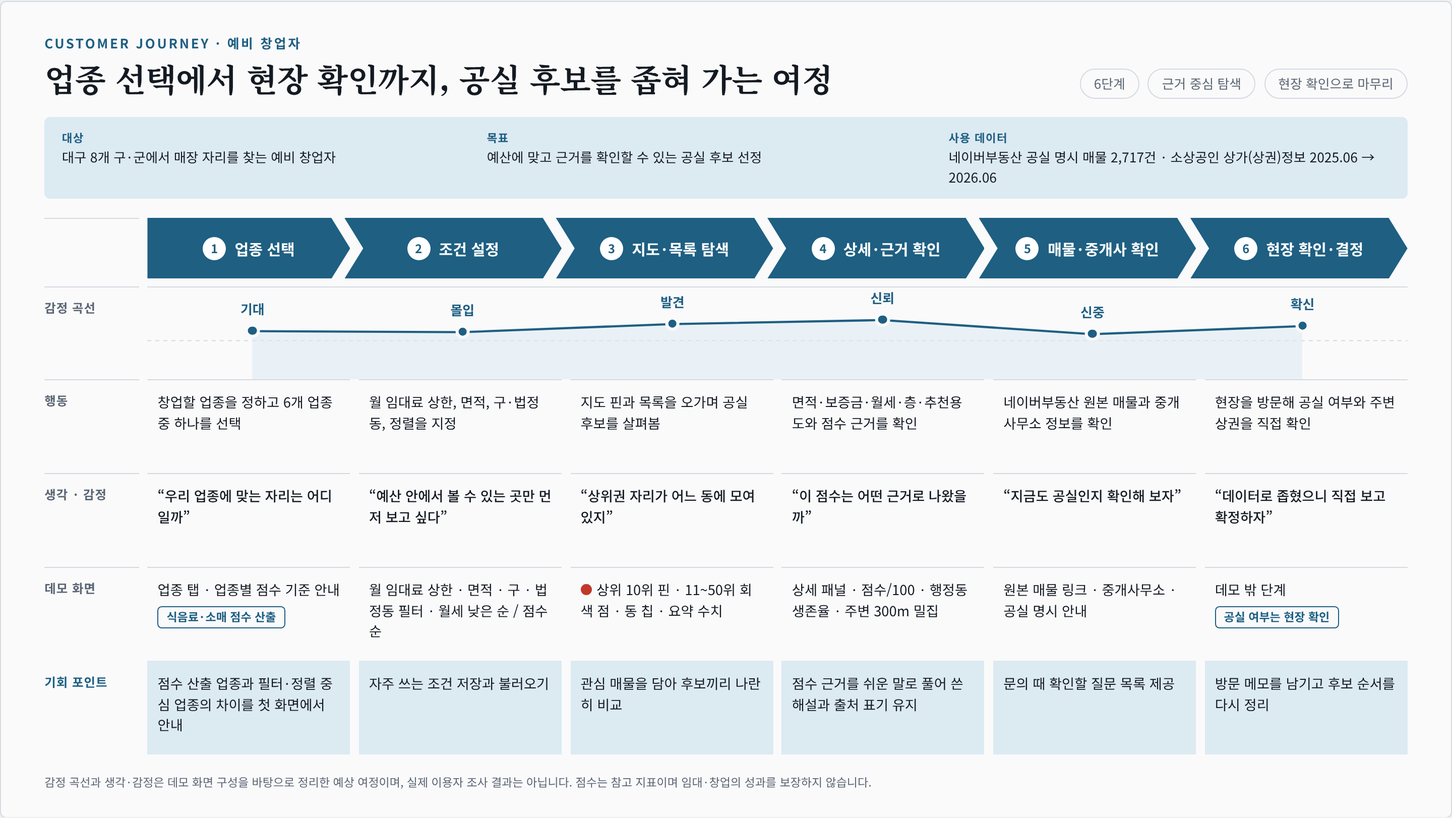
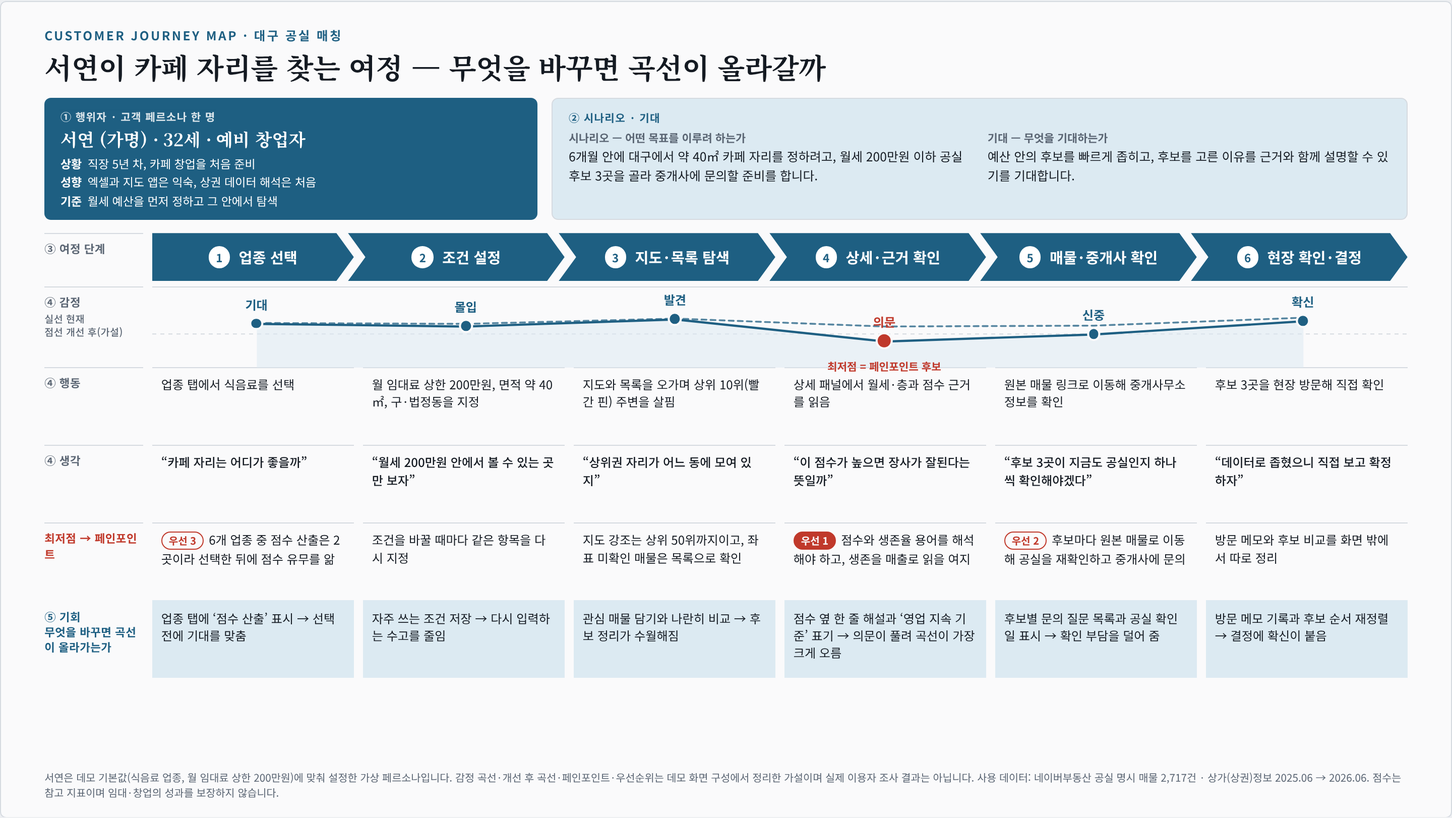
docs: 고객 여정 지도에 페르소나와 5요소 구조, 페인포인트 우선순위 반영
- 행위자(서연, 가명) · 시나리오·기대 · 여정 단계 · 행동·생각·감정 · 기회 순으로 재구성
- 최저점을 페인포인트 후보로 표시하고 개선 후 곡선(가설)을 추가
- md, HTML, PNG를 함께 갱신

Claude-Session: https://claude.ai/code/session_01M2kW5dRV34WsrKaFoMCad9

diff --git a/12_고객여정지도_대구_공실매칭.html b/12_고객여정지도_대구_공실매칭.html
@@ -4,8 +4,8 @@
 <link rel="preconnect" href="https://fonts.gstatic.com" crossorigin>
 <link href="https://fonts.googleapis.com/css2?family=Noto+Sans+KR:wght@400;500;700&family=Noto+Serif+KR:wght@600;700&display=swap" rel="stylesheet">
 <style>
-/* Layout concept: one 16:9 journey frame for the 예비 창업자 using the 대구 공실 매칭 demo.
-   Persona strip on top, six stage chevrons, emotion curve, then 행동 / 생각 / 데모 화면 / 기회 rows. */
+/* Layout concept: one 16:9 journey frame built on the five elements of a journey map.
+   ① 행위자 and ② 시나리오·기대 sit side by side on top; ③ stages, ④ 행동·생각·감정 (with curve), ⑤ 기회 run below. */
 :root{
   --bg:#EDEFF2; --paper:#FAFAFB; --ink:#141A22; --muted:#5A6573; --line:#D5DAE0;
   --acc:#1E5F82; --acc-soft:#DCEAF2; --on-acc:#FFFFFF; --pin:#C0392B;
@@ -39,82 +39,113 @@ body{
   container-type:inline-size; aspect-ratio:16/9; min-width:1100px;
   background:var(--paper); border:1px solid var(--line); border-radius:6px; overflow:hidden;
 }
-.inner{height:100%; display:flex; flex-direction:column; gap:1.3cqw; padding:2.2cqw 3cqw 1.8cqw}
-.head{display:flex; justify-content:space-between; align-items:flex-end; gap:2cqw}
-.eyebrow{margin:0 0 .4cqw; font-size:.9cqw; letter-spacing:.14em; font-weight:700; color:var(--acc)}
-.head h2{margin:0; font-family:var(--serif); font-size:2.2cqw; line-height:1.25; letter-spacing:-.01em}
-.chips{display:flex; gap:.6cqw; margin:0; padding:0; list-style:none}
-.chips li{border:1px solid var(--line); border-radius:99px; padding:.3cqw .9cqw; font-size:.9cqw; color:var(--muted)}
-.persona{
-  display:grid; grid-template-columns:1.1fr 1.2fr 1.2fr; gap:1.4cqw;
-  background:var(--acc-soft); border-radius:.4cqw; padding:.8cqw 1.2cqw;
-}
-.persona div{font-size:.92cqw; line-height:1.5; min-width:0}
-.persona b{display:block; font-size:.78cqw; letter-spacing:.06em; color:var(--acc); margin-bottom:.1cqw}
+.inner{height:100%; display:flex; flex-direction:column; gap:.9cqw; padding:1.7cqw 3cqw 1.2cqw}
+.head p{margin:0 0 .3cqw; font-size:.85cqw; letter-spacing:.14em; font-weight:700; color:var(--acc)}
+.head h2{margin:0; font-family:var(--serif); font-size:1.95cqw; line-height:1.25; letter-spacing:-.01em}
+
+/* ① ② */
+.top2{display:grid; grid-template-columns:.95fr 1.65fr; gap:1cqw}
+.card{border-radius:.45cqw; padding:.8cqw 1.1cqw; min-width:0}
+.persona{background:var(--acc); color:var(--on-acc)}
+.scn{background:var(--acc-soft); border:1px solid var(--line)}
+.kk{font-size:.74cqw; font-weight:700; letter-spacing:.06em; margin-bottom:.3cqw; display:block}
+.persona .kk{opacity:.85}
+.scn .kk{color:var(--acc)}
+.pname{font-family:var(--serif); font-size:1.2cqw; font-weight:700; margin:0 0 .3cqw; line-height:1.3}
+.persona ul{margin:0; padding:0; list-style:none; display:grid; gap:.15cqw}
+.persona li{font-size:.8cqw; line-height:1.4}
+.persona li b{font-weight:700; margin-right:.4cqw}
+.scn-grid{display:grid; grid-template-columns:1fr 1fr; gap:1.1cqw}
+.scn p{margin:0; font-size:.86cqw; line-height:1.5}
+.scn .sub{font-size:.76cqw; font-weight:700; color:var(--muted); margin-bottom:.15cqw; display:block}
+
+/* ③ ④ ⑤ */
 .grid{
   flex:1; min-height:0; display:grid; column-gap:.6cqw;
-  grid-template-columns:6.5cqw repeat(6, minmax(0,1fr));
-  grid-template-rows:auto auto repeat(4, minmax(0,1fr));
+  grid-template-columns:6.8cqw repeat(6, minmax(0,1fr));
+  grid-template-rows:auto auto repeat(5, minmax(0,1fr));
 }
-.lab{font-size:.85cqw; font-weight:700; color:var(--muted); letter-spacing:.04em; padding:.8cqw .3cqw .8cqw 0; border-top:1px solid var(--line)}
-.c{font-size:.95cqw; line-height:1.5; padding:.8cqw .7cqw; border-top:1px solid var(--line); min-width:0}
+.lab{font-size:.78cqw; font-weight:700; color:var(--muted); letter-spacing:.02em; padding:.5cqw .3cqw .5cqw 0; border-top:1px solid var(--line); line-height:1.35}
+.c{font-size:.84cqw; line-height:1.42; padding:.5cqw .65cqw; border-top:1px solid var(--line); min-width:0}
 .c.q{font-weight:500}
 .c.opp{background:var(--acc-soft); border-top-color:transparent}
 .lab.opp{color:var(--acc); border-top-color:transparent}
+.lab.pain{color:var(--pin)}
 .st{
-  display:flex; align-items:center; justify-content:center; gap:.6cqw; height:4.2cqw;
-  background:var(--acc); color:var(--on-acc); font-weight:700; font-size:1.05cqw;
-  clip-path:polygon(0 0, calc(100% - 1.3cqw) 0, 100% 50%, calc(100% - 1.3cqw) 100%, 0 100%, 1.3cqw 50%);
-  margin-left:-1cqw; padding:0 1.6cqw; text-align:center; line-height:1.25; min-width:0;
+  display:flex; align-items:center; justify-content:center; gap:.6cqw; height:3.3cqw;
+  background:var(--acc); color:var(--on-acc); font-weight:700; font-size:1.02cqw;
+  clip-path:polygon(0 0, calc(100% - 1.2cqw) 0, 100% 50%, calc(100% - 1.2cqw) 100%, 0 100%, 1.2cqw 50%);
+  margin-left:-1cqw; padding:0 1.5cqw; text-align:center; line-height:1.25; min-width:0;
 }
-.st:nth-child(2){margin-left:0; clip-path:polygon(0 0, calc(100% - 1.3cqw) 0, 100% 50%, calc(100% - 1.3cqw) 100%, 0 100%)}
+.st:nth-child(2){margin-left:0; clip-path:polygon(0 0, calc(100% - 1.2cqw) 0, 100% 50%, calc(100% - 1.2cqw) 100%, 0 100%)}
 .st b{
-  font-size:.82cqw; width:1.6cqw; height:1.6cqw; border-radius:50%; flex:none;
+  font-size:.78cqw; width:1.5cqw; height:1.5cqw; border-radius:50%; flex:none;
   display:inline-flex; align-items:center; justify-content:center;
   background:var(--on-acc); color:var(--acc);
 }
-.curve{grid-column:2 / -1; position:relative; height:6.4cqw; border-top:1px solid var(--line); margin-top:.5cqw}
+.curve{grid-column:2 / -1; position:relative; height:5.6cqw; border-top:1px solid var(--line); margin-top:.35cqw}
 .curve svg{position:absolute; inset:0; width:100%; height:100%; overflow:visible}
 .curve .area{fill:var(--acc-soft)}
 .curve .line{fill:none; stroke:var(--acc); stroke-width:2.2; stroke-linejoin:round; stroke-linecap:round; vector-effect:non-scaling-stroke}
+.curve .after{fill:none; stroke:var(--acc); stroke-width:1.8; stroke-dasharray:5 4; stroke-linejoin:round; stroke-linecap:round; vector-effect:non-scaling-stroke; opacity:.75}
 .curve .mid{stroke:var(--line); stroke-width:1; stroke-dasharray:4 4; vector-effect:non-scaling-stroke}
-.dot{position:absolute; width:1cqw; height:1cqw; border-radius:50%; background:var(--acc); border:.22cqw solid var(--paper); transform:translate(-50%,-50%)}
-.dl{position:absolute; transform:translate(-50%,-165%); font-size:.9cqw; font-weight:700; color:var(--acc); white-space:nowrap}
-.lab.cv{grid-row:2; border-top:1px solid var(--line); margin-top:.5cqw; padding-top:.8cqw}
-.pin{display:inline-block; width:.8cqw; height:.8cqw; border-radius:50%; background:var(--pin); margin-right:.3cqw; vertical-align:baseline}
-.tag{
-  display:inline-block; margin-top:.4cqw; padding:.1cqw .55cqw; border:1px solid var(--acc); color:var(--acc);
-  border-radius:.3cqw; font-size:.8cqw; font-weight:700; line-height:1.5;
+.dot{position:absolute; width:.95cqw; height:.95cqw; border-radius:50%; background:var(--acc); border:.2cqw solid var(--paper); transform:translate(-50%,-50%)}
+.dot.low{background:var(--pin); width:1.2cqw; height:1.2cqw}
+.dl{position:absolute; transform:translate(-50%,-165%); font-size:.84cqw; font-weight:700; color:var(--acc); white-space:nowrap}
+.dl.low{color:var(--pin)}
+.ln{position:absolute; transform:translate(-50%,115%); font-size:.74cqw; font-weight:700; color:var(--pin); white-space:nowrap}
+.lab.cv{grid-row:2; border-top:1px solid var(--line); margin-top:.35cqw; padding-top:.5cqw}
+.lab.cv small{display:block; font-weight:500; font-size:.68cqw; margin-top:.2cqw; color:var(--muted)}
+.pr{
+  display:inline-block; margin-right:.35cqw; padding:.02cqw .45cqw; border-radius:99px; font-size:.7cqw; font-weight:700;
+  border:1px solid var(--pin); color:var(--pin); line-height:1.5; white-space:nowrap;
 }
-.foot{margin:0; font-size:.8cqw; color:var(--muted); line-height:1.5}
+.pr.p1{background:var(--pin); color:var(--paper)}
+.foot{margin:0; font-size:.72cqw; color:var(--muted); line-height:1.45}
 @media (prefers-reduced-motion: reduce){*{transition:none!important; animation:none!important}}
 </style>
 
 <main class="page">
   <div class="top">
     <h1>대구 공실 매칭 고객 여정</h1>
-    <p>「대구 공실 매칭 · 8개 구·군」 데모의 화면 구성(업종 선택, 조건 필터, 지도·목록, 점수 근거, 원본 매물 링크)을 기준으로 예비 창업자의 여정을 정리했습니다.</p>
+    <p>「대구 공실 매칭 · 8개 구·군」 데모를 쓰는 고객 한 명과 목표 하나를 기준으로, 행위자 · 시나리오 · 여정 단계 · 행동·생각·감정 · 기회의 다섯 요소로 정리했습니다.</p>
   </div>
 
   <div class="scroller">
   <section class="stage" aria-label="대구 공실 매칭 고객 여정 지도">
     <div class="inner">
       <header class="head">
-        <div>
-          <p class="eyebrow">CUSTOMER JOURNEY · 예비 창업자</p>
-          <h2>업종 선택에서 현장 확인까지, 공실 후보를 좁혀 가는 여정</h2>
-        </div>
-        <ul class="chips"><li>6단계</li><li>근거 중심 탐색</li><li>현장 확인으로 마무리</li></ul>
+        <p>CUSTOMER JOURNEY MAP · 대구 공실 매칭</p>
+        <h2>서연이 카페 자리를 찾는 여정 — 무엇을 바꾸면 곡선이 올라갈까</h2>
       </header>
 
-      <div class="persona">
-        <div><b>대상</b>대구 8개 구·군에서 매장 자리를 찾는 예비 창업자</div>
-        <div><b>목표</b>예산에 맞고 근거를 확인할 수 있는 공실 후보 선정</div>
-        <div><b>사용 데이터</b>네이버부동산 공실 명시 매물 2,717건 · 소상공인 상가(상권)정보 2025.06 → 2026.06</div>
+      <div class="top2">
+        <div class="card persona">
+          <span class="kk">① 행위자 · 고객 페르소나 한 명</span>
+          <p class="pname">서연 (가명) · 32세 · 예비 창업자</p>
+          <ul>
+            <li><b>상황</b>직장 5년 차, 카페 창업을 처음 준비</li>
+            <li><b>성향</b>엑셀과 지도 앱은 익숙, 상권 데이터 해석은 처음</li>
+            <li><b>기준</b>월세 예산을 먼저 정하고 그 안에서 탐색</li>
+          </ul>
+        </div>
+        <div class="card scn">
+          <span class="kk">② 시나리오 · 기대</span>
+          <div class="scn-grid">
+            <div>
+              <span class="sub">시나리오 — 어떤 목표를 이루려 하는가</span>
+              <p>6개월 안에 대구에서 약 40㎡ 카페 자리를 정하려고, 월세 200만원 이하 공실 후보 3곳을 골라 중개사에 문의할 준비를 합니다.</p>
+            </div>
+            <div>
+              <span class="sub">기대 — 무엇을 기대하는가</span>
+              <p>예산 안의 후보를 빠르게 좁히고, 후보를 고른 이유를 근거와 함께 설명할 수 있기를 기대합니다.</p>
+            </div>
+          </div>
+        </div>
       </div>
 
       <div class="grid">
-        <div class="lab"></div>
+        <div class="lab">③ 여정 단계</div>
         <div class="st"><b>1</b>업종 선택</div>
         <div class="st"><b>2</b>조건 설정</div>
         <div class="st"><b>3</b>지도·목록 탐색</div>
@@ -122,43 +153,43 @@ body{
         <div class="st"><b>5</b>매물·중개사 확인</div>
         <div class="st"><b>6</b>현장 확인·결정</div>
 
-        <div class="lab cv">감정 곡선</div>
-        <div class="curve" data-v="68,66,82,90,62,78" data-l="기대,몰입,발견,신뢰,신중,확신"></div>
+        <div class="lab cv">④ 감정<small>실선 현재<br>점선 개선 후(가설)</small></div>
+        <div class="curve" data-v="72,66,82,32,48,78" data-w="74,72,84,66,68,86" data-l="기대,몰입,발견,의문,신중,확신" data-low="3"></div>
 
-        <div class="lab">행동</div>
-        <div class="c">창업할 업종을 정하고 6개 업종 중 하나를 선택</div>
-        <div class="c">월 임대료 상한, 면적, 구·법정동, 정렬을 지정</div>
-        <div class="c">지도 핀과 목록을 오가며 공실 후보를 살펴봄</div>
-        <div class="c">면적·보증금·월세·층·추천용도와 점수 근거를 확인</div>
-        <div class="c">네이버부동산 원본 매물과 중개사무소 정보를 확인</div>
-        <div class="c">현장을 방문해 공실 여부와 주변 상권을 직접 확인</div>
+        <div class="lab">④ 행동</div>
+        <div class="c">업종 탭에서 식음료를 선택</div>
+        <div class="c">월 임대료 상한 200만원, 면적 약 40㎡, 구·법정동을 지정</div>
+        <div class="c">지도와 목록을 오가며 상위 10위(빨간 핀) 주변을 살핌</div>
+        <div class="c">상세 패널에서 월세·층과 점수 근거를 읽음</div>
+        <div class="c">원본 매물 링크로 이동해 중개사무소 정보를 확인</div>
+        <div class="c">후보 3곳을 현장 방문해 직접 확인</div>
 
-        <div class="lab">생각 · 감정</div>
-        <div class="c q">“우리 업종에 맞는 자리는 어디일까”</div>
-        <div class="c q">“예산 안에서 볼 수 있는 곳만 먼저 보고 싶다”</div>
+        <div class="lab">④ 생각</div>
+        <div class="c q">“카페 자리는 어디가 좋을까”</div>
+        <div class="c q">“월세 200만원 안에서 볼 수 있는 곳만 보자”</div>
         <div class="c q">“상위권 자리가 어느 동에 모여 있지”</div>
-        <div class="c q">“이 점수는 어떤 근거로 나왔을까”</div>
-        <div class="c q">“지금도 공실인지 확인해 보자”</div>
+        <div class="c q">“이 점수가 높으면 장사가 잘된다는 뜻일까”</div>
+        <div class="c q">“후보 3곳이 지금도 공실인지 하나씩 확인해야겠다”</div>
         <div class="c q">“데이터로 좁혔으니 직접 보고 확정하자”</div>
 
-        <div class="lab">데모 화면</div>
-        <div class="c">업종 탭 · 업종별 점수 기준 안내<br><span class="tag">식음료·소매 점수 산출</span></div>
-        <div class="c">월 임대료 상한 · 면적 · 구 · 법정동 필터 · 월세 낮은 순 / 점수 순</div>
-        <div class="c"><span class="pin"></span>상위 10위 핀 · 11~50위 회색 점 · 동 칩 · 요약 수치</div>
-        <div class="c">상세 패널 · 점수/100 · 행정동 생존율 · 주변 300m 밀집</div>
-        <div class="c">원본 매물 링크 · 중개사무소 · 공실 명시 안내</div>
-        <div class="c">데모 밖 단계<br><span class="tag">공실 여부는 현장 확인</span></div>
+        <div class="lab pain">최저점 → 페인포인트</div>
+        <div class="c"><span class="pr">우선 3</span>6개 업종 중 점수 산출은 2곳이라 선택한 뒤에 점수 유무를 앎</div>
+        <div class="c">조건을 바꿀 때마다 같은 항목을 다시 지정</div>
+        <div class="c">지도 강조는 상위 50위까지이고, 좌표 미확인 매물은 목록으로 확인</div>
+        <div class="c"><span class="pr p1">우선 1</span>점수와 생존율 용어를 해석해야 하고, 생존을 매출로 읽을 여지</div>
+        <div class="c"><span class="pr">우선 2</span>후보마다 원본 매물로 이동해 공실을 재확인하고 중개사에 문의</div>
+        <div class="c">방문 메모와 후보 비교를 화면 밖에서 따로 정리</div>
 
-        <div class="lab opp">기회 포인트</div>
-        <div class="c opp">점수 산출 업종과 필터·정렬 중심 업종의 차이를 첫 화면에서 안내</div>
-        <div class="c opp">자주 쓰는 조건 저장과 불러오기</div>
-        <div class="c opp">관심 매물을 담아 후보끼리 나란히 비교</div>
-        <div class="c opp">점수 근거를 쉬운 말로 풀어 쓴 해설과 출처 표기 유지</div>
-        <div class="c opp">문의 때 확인할 질문 목록 제공</div>
-        <div class="c opp">방문 메모를 남기고 후보 순서를 다시 정리</div>
+        <div class="lab opp">⑤ 기회<br>무엇을 바꾸면 곡선이 올라가는가</div>
+        <div class="c opp">업종 탭에 ‘점수 산출’ 표시 → 선택 전에 기대를 맞춤</div>
+        <div class="c opp">자주 쓰는 조건 저장 → 다시 입력하는 수고를 줄임</div>
+        <div class="c opp">관심 매물 담기와 나란히 비교 → 후보 정리가 수월해짐</div>
+        <div class="c opp">점수 옆 한 줄 해설과 ‘영업 지속 기준’ 표기 → 의문이 풀려 곡선이 가장 크게 오름</div>
+        <div class="c opp">후보별 문의 질문 목록과 공실 확인일 표시 → 확인 부담을 덜어 줌</div>
+        <div class="c opp">방문 메모 기록과 후보 순서 재정렬 → 결정에 확신이 붙음</div>
       </div>
 
-      <p class="foot">감정 곡선과 생각·감정은 데모 화면 구성을 바탕으로 정리한 예상 여정이며, 실제 이용자 조사 결과는 아닙니다. 점수는 참고 지표이며 임대·창업의 성과를 보장하지 않습니다.</p>
+      <p class="foot">서연은 데모 기본값(식음료 업종, 월 임대료 상한 200만원)에 맞춰 설정한 가상 페르소나입니다. 감정 곡선·개선 후 곡선·페인포인트·우선순위는 데모 화면 구성에서 정리한 가설이며 실제 이용자 조사 결과는 아닙니다. 사용 데이터: 네이버부동산 공실 명시 매물 2,717건 · 상가(상권)정보 2025.06 → 2026.06. 점수는 참고 지표이며 임대·창업의 성과를 보장하지 않습니다.</p>
     </div>
   </section>
   </div>
@@ -166,18 +197,23 @@ body{
 
 <script>
 document.querySelectorAll('.curve').forEach(function(el){
-  var v = el.dataset.v.split(',').map(Number), l = el.dataset.l.split(',');
+  var v = el.dataset.v.split(',').map(Number), w = (el.dataset.w||'').split(',').map(Number), l = el.dataset.l.split(',');
+  var low = el.dataset.low === undefined ? -1 : Number(el.dataset.low);
   var n = v.length;
-  var pts = v.map(function(x,i){ return [(i+.5)/n*100, 85 - x*.55]; });
-  var line = pts.map(function(p,i){ return (i?'L':'M')+p[0].toFixed(2)+' '+p[1].toFixed(2); }).join(' ');
+  function P(a){ return a.map(function(x,i){ return [(i+.5)/n*100, 85 - x*.55]; }); }
+  function D(p){ return p.map(function(q,i){ return (i?'L':'M')+q[0].toFixed(2)+' '+q[1].toFixed(2); }).join(' '); }
+  var pts = P(v);
   var area = 'M'+pts[0][0].toFixed(2)+' 100 '+pts.map(function(p){ return 'L'+p[0].toFixed(2)+' '+p[1].toFixed(2); }).join(' ')+' L'+pts[n-1][0].toFixed(2)+' 100 Z';
   var html = '<svg viewBox="0 0 100 100" preserveAspectRatio="none" aria-hidden="true">'
     + '<line class="mid" x1="0" y1="58" x2="100" y2="58"/>'
     + '<path class="area" d="'+area+'" opacity=".55"/>'
-    + '<path class="line" d="'+line+'"/></svg>';
+    + (w.length===n ? '<path class="after" d="'+D(P(w))+'"/>' : '')
+    + '<path class="line" d="'+D(pts)+'"/></svg>';
   pts.forEach(function(p,i){
-    html += '<span class="dot" style="left:'+p[0]+'%;top:'+p[1]+'%"></span>'
-         +  '<span class="dl" style="left:'+p[0]+'%;top:'+p[1]+'%">'+l[i]+'</span>';
+    var c = i===low ? ' low' : '';
+    html += '<span class="dot'+c+'" style="left:'+p[0]+'%;top:'+p[1]+'%"></span>'
+         +  '<span class="dl'+c+'" style="left:'+p[0]+'%;top:'+p[1]+'%">'+l[i]+'</span>';
+    if(i===low){ html += '<span class="ln" style="left:'+p[0]+'%;top:'+p[1]+'%">최저점 = 페인포인트 후보</span>'; }
   });
   el.innerHTML = html;
 });

diff --git a/12_고객여정지도_대구_공실매칭.md b/12_고객여정지도_대구_공실매칭.md
@@ -1,36 +1,48 @@
 # 대구 공실 매칭 고객 여정 지도
 
-「대구 공실 매칭 · 8개 구·군」 데모의 화면 구성(업종 선택, 조건 필터, 지도·목록, 점수 근거, 원본 매물 링크)을 기준으로 예비 창업자의 여정을 정리했습니다.
+「대구 공실 매칭 · 8개 구·군」 데모를 쓰는 고객 한 명과 목표 하나를 기준으로, 고객 여정 지도의 다섯 요소(① 행위자 · ② 시나리오·기대 · ③ 여정 단계 · ④ 행동·생각·감정 · ⑤ 기회)에 맞춰 정리했습니다.
 
 ![대구 공실 매칭 고객 여정 지도](12_고객여정지도_대구_공실매칭.png)
 
 - 인터랙티브 원본(16:9 HTML): [12_고객여정지도_대구_공실매칭.html](12_고객여정지도_대구_공실매칭.html)
 
-## 페르소나
+## ① 행위자 — 고객 페르소나 한 명
 
 | 항목 | 내용 |
 |---|---|
-| 대상 | 대구 8개 구·군에서 매장 자리를 찾는 예비 창업자 |
-| 목표 | 예산에 맞고 근거를 확인할 수 있는 공실 후보 선정 |
-| 사용 데이터 | 네이버부동산 공실 명시 매물 2,717건 · 소상공인 상가(상권)정보 2025.06 → 2026.06 |
+| 이름 | 서연 (가명) |
+| 나이·역할 | 32세 · 예비 창업자 |
+| 상황 | 직장 5년 차, 카페 창업을 처음 준비 |
+| 성향 | 엑셀과 지도 앱은 익숙하고, 상권 데이터 해석은 처음 |
+| 탐색 기준 | 월세 예산을 먼저 정하고 그 안에서 탐색 |
 
-## 여정 6단계
+서연은 데모 기본값(식음료 업종, 월 임대료 상한 200만원)에 맞춰 설정한 가상 페르소나입니다. 여러 고객을 한 장에 섞으면 감정 곡선의 의미가 흐려지므로, 한 사람과 한 시나리오만 다룹니다.
+
+## ② 시나리오 · 기대
+
+- **시나리오(어떤 목표를 이루려 하는가)**: 6개월 안에 대구에서 약 40㎡ 카페 자리를 정하려고, 월세 200만원 이하 공실 후보 3곳을 골라 중개사에 문의할 준비를 합니다.
+- **기대(무엇을 기대하는가)**: 예산 안의 후보를 빠르게 좁히고, 후보를 고른 이유를 근거와 함께 설명할 수 있기를 기대합니다.
+
+## ③ 여정 단계 · ④ 행동 · 생각 · 감정 · ⑤ 기회
 
 | 구분 | 1. 업종 선택 | 2. 조건 설정 | 3. 지도·목록 탐색 | 4. 상세·근거 확인 | 5. 매물·중개사 확인 | 6. 현장 확인·결정 |
 |---|---|---|---|---|---|---|
-| **행동** | 창업할 업종을 정하고 6개 업종 중 하나를 선택 | 월 임대료 상한, 면적, 구·법정동, 정렬을 지정 | 지도 핀과 목록을 오가며 공실 후보를 살펴봄 | 면적·보증금·월세·층·추천용도와 점수 근거를 확인 | 네이버부동산 원본 매물과 중개사무소 정보를 확인 | 현장을 방문해 공실 여부와 주변 상권을 직접 확인 |
-| **생각·감정** | “우리 업종에 맞는 자리는 어디일까” | “예산 안에서 볼 수 있는 곳만 먼저 보고 싶다” | “상위권 자리가 어느 동에 모여 있지” | “이 점수는 어떤 근거로 나왔을까” | “지금도 공실인지 확인해 보자” | “데이터로 좁혔으니 직접 보고 확정하자” |
-| **데모 화면** | 업종 탭 · 업종별 점수 기준 안내 (식음료·소매 점수 산출) | 월 임대료 상한 · 면적 · 구 · 법정동 필터 · 월세 낮은 순 / 점수 순 | 상위 10위 핀 · 11~50위 회색 점 · 동 칩 · 요약 수치 | 상세 패널 · 점수/100 · 행정동 생존율 · 주변 300m 밀집 | 원본 매물 링크 · 중개사무소 · 공실 명시 안내 | 데모 밖 단계 (공실 여부는 현장 확인) |
-| **기회 포인트** | 점수 산출 업종과 필터·정렬 중심 업종의 차이를 첫 화면에서 안내 | 자주 쓰는 조건 저장과 불러오기 | 관심 매물을 담아 후보끼리 나란히 비교 | 점수 근거를 쉬운 말로 풀어 쓴 해설과 출처 표기 유지 | 문의 때 확인할 질문 목록 제공 | 방문 메모를 남기고 후보 순서를 다시 정리 |
+| **행동** | 업종 탭에서 식음료를 선택 | 월 임대료 상한 200만원, 면적 약 40㎡, 구·법정동을 지정 | 지도와 목록을 오가며 상위 10위(빨간 핀) 주변을 살핌 | 상세 패널에서 월세·층과 점수 근거를 읽음 | 원본 매물 링크로 이동해 중개사무소 정보를 확인 | 후보 3곳을 현장 방문해 직접 확인 |
+| **생각** | “카페 자리는 어디가 좋을까” | “월세 200만원 안에서 볼 수 있는 곳만 보자” | “상위권 자리가 어느 동에 모여 있지” | “이 점수가 높으면 장사가 잘된다는 뜻일까” | “후보 3곳이 지금도 공실인지 하나씩 확인해야겠다” | “데이터로 좁혔으니 직접 보고 확정하자” |
+| **감정(현재)** | 기대 (72) | 몰입 (66) | 발견 (82) | **의문 (32) ← 최저점** | 신중 (48) | 확신 (78) |
+| **감정(개선 후, 가설)** | 74 | 72 | 84 | 66 | 68 | 86 |
+| **페인포인트** | **[우선 3]** 6개 업종 중 점수 산출은 2곳이라 선택한 뒤에 점수 유무를 앎 | 조건을 바꿀 때마다 같은 항목을 다시 지정 | 지도 강조는 상위 50위까지이고, 좌표 미확인 매물은 목록으로 확인 | **[우선 1]** 점수와 생존율 용어를 해석해야 하고, 생존을 매출로 읽을 여지 | **[우선 2]** 후보마다 원본 매물로 이동해 공실을 재확인하고 중개사에 문의 | 방문 메모와 후보 비교를 화면 밖에서 따로 정리 |
+| **⑤ 기회 (무엇을 바꾸면 곡선이 올라가는가)** | 업종 탭에 ‘점수 산출’ 표시 → 선택 전에 기대를 맞춤 | 자주 쓰는 조건 저장 → 다시 입력하는 수고를 줄임 | 관심 매물 담기와 나란히 비교 → 후보 정리가 수월해짐 | 점수 옆 한 줄 해설과 ‘영업 지속 기준’ 표기 → 의문이 풀려 곡선이 가장 크게 오름 | 후보별 문의 질문 목록과 공실 확인일 표시 → 확인 부담을 덜어 줌 | 방문 메모 기록과 후보 순서 재정렬 → 결정에 확신이 붙음 |
 
-## 감정 곡선 (예상)
+감정 수치(0~100)는 곡선을 그리기 위한 상대적 표시값이며, 최저점이 페인포인트 후보입니다. 개선 후 수치는 위 기회를 적용했을 때를 가정한 값입니다.
 
-| 단계 | 1 | 2 | 3 | 4 | 5 | 6 |
-|---|---|---|---|---|---|---|
-| 감정 | 기대 | 몰입 | 발견 | 신뢰 | 신중 | 확신 |
-| 수준(0~100) | 68 | 66 | 82 | 90 | 62 | 78 |
+## 페인포인트 우선순위
 
-수준 값은 곡선 그래프를 그리기 위한 상대적 표시값입니다.
+| 순위 | 단계 | 확인이 필요한 지점 | 왜 우선하는가 | 대응 방향 |
+|---|---|---|---|---|
+| 1 | 4. 상세·근거 확인 | 점수 근거가 행정동 생존율(축소 추정), 주변 300m 밀집, 업종 내 상대 위치로 구성되어 용어 이해가 필요하고, 생존이 영업 지속 여부라는 점을 짚어서 읽어야 함 | 점수를 매출이나 성공 가능성으로 읽을 여지가 있고, 감정 곡선의 최저점이 이 단계에 있음 | 점수 옆 한 줄 해설, 용어 풀이, ‘영업 지속 기준’ 표기 |
+| 2 | 5. 매물·중개사 확인 | 공실 여부가 중개사 기재 기준이어서 후보마다 원본 매물 확인과 중개사 문의가 반복됨 | 후보가 늘수록 반복 작업이 늘어남 | 후보별 문의 질문 목록, 공실 확인일 표시 |
+| 3 | 1. 업종 선택 | 6개 업종 중 점수가 산출되는 업종은 식음료·소매 2개이며, 나머지 4개 업종은 필터·정렬 중심으로 탐색 | 선택한 뒤에야 점수 유무를 알게 되어 기대와 차이가 생길 수 있음 | 업종 탭에 ‘점수 산출’ 표시 |
 
 ## 데모 파일에서 가져온 근거
 
@@ -38,12 +50,21 @@
 - 점수는 생존율 검증을 통과한 업종(식음료, 소매)에만 산출하고, 나머지 업종은 조건 필터와 정렬 중심으로 보여줍니다.
 - 점수 요인은 행정동 생존율(표본이 적은 행정동은 전체 평균 쪽으로 축소 추정)과 주변 300m 밀집도이며, 소매는 행정동 주거인구도 함께 반영합니다.
 - 지도에서 상위 10위는 빨간 핀, 11~50위는 회색 점으로 표시합니다.
+- 요약 영역에 ‘좌표 없는 N곳은 목록만’ 안내가 표시됩니다.
 - 상세 패널에서 전용 면적, 보증금, 월세, 층, 현재용도, 추천용도, 중개사무소, 특징을 확인하고 네이버부동산 원본 매물로 이동할 수 있습니다.
-- 배경지도는 국토교통부 브이월드를 사용합니다.
+- 사용 데이터는 네이버부동산 공실 명시 매물 2,717건과 소상공인 상가(상권)정보 2025.06 → 2026.06이며, 배경지도는 국토교통부 브이월드를 사용합니다.
+
+## 검증 제안
+
+페르소나, 곡선, 페인포인트와 우선순위는 화면 구성에서 정리한 가설이므로, 팀원 시연이나 간단한 인터뷰로 확인하면 좋습니다.
+
+- 점수 근거 화면을 보고 “이 점수가 무엇을 의미하나요?”를 자기 말로 설명해 보게 하기 (우선 1 확인)
+- 후보 3곳을 고른 뒤 공실 여부를 확인하는 데 걸리는 시간과 이동 횟수 기록하기 (우선 2 확인)
+- 업종을 고르기 전에 점수 산출 여부를 알고 싶었는지 묻기 (우선 3 확인)
 
 ## 유의 사항
 
-- 감정 곡선과 생각·감정은 데모 화면 구성을 바탕으로 정리한 예상 여정이며, 실제 이용자 조사 결과는 아닙니다.
+- 페르소나, 감정 곡선, 개선 후 곡선, 페인포인트와 우선순위는 데모 화면 구성을 바탕으로 정리한 가설이며, 실제 이용자 조사 결과는 아닙니다.
 - 공실 여부는 중개사 기재 기준이며 현장 확인이 필요합니다.
 - 점수는 참고 지표이며 임대·창업의 성과를 보장하지 않습니다. 생존은 영업 지속 여부이며 매출 성과가 아닙니다.
 
